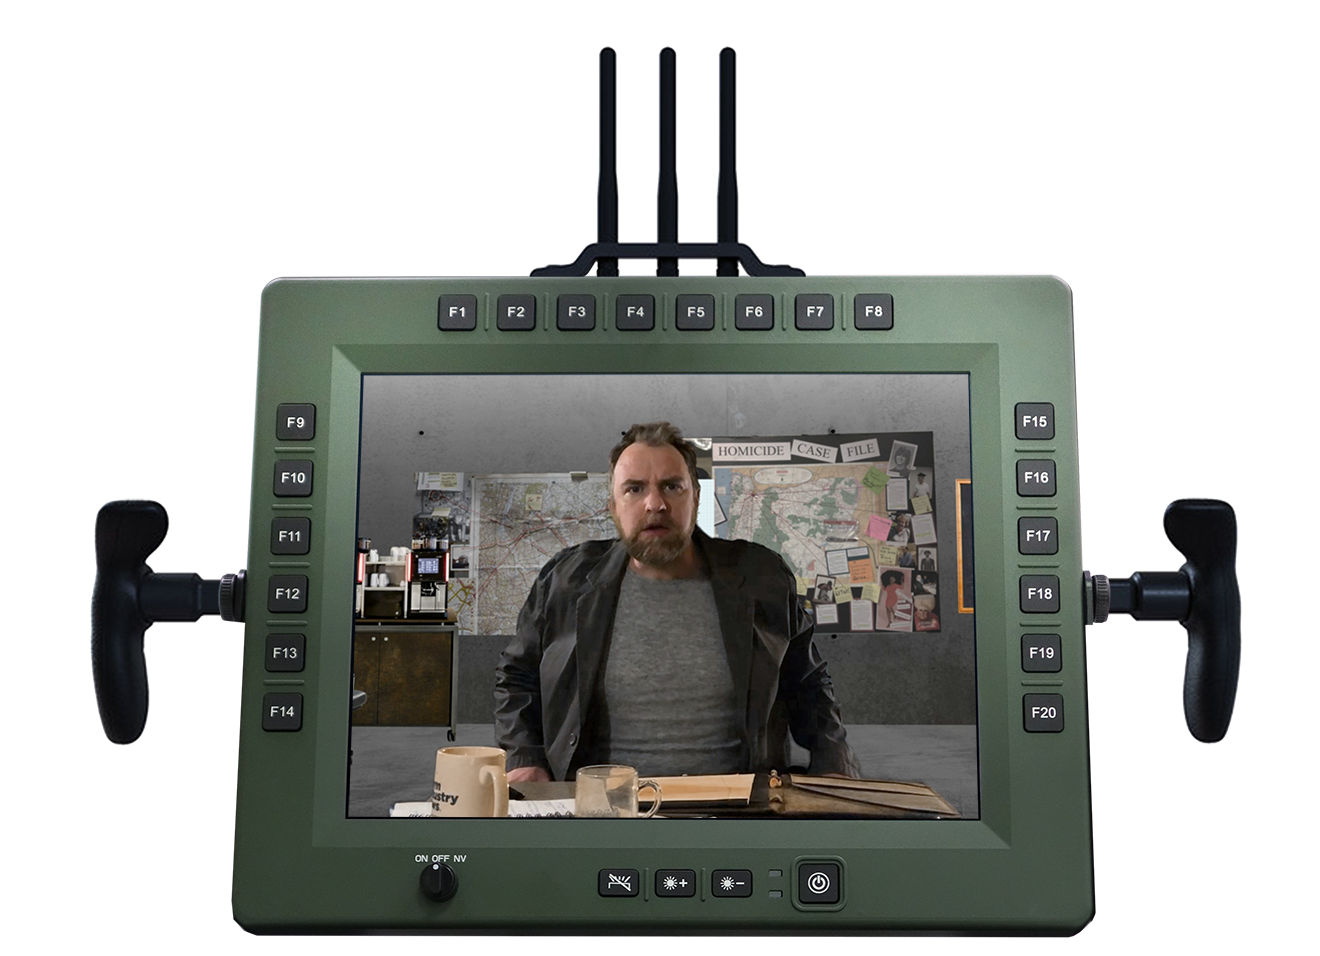
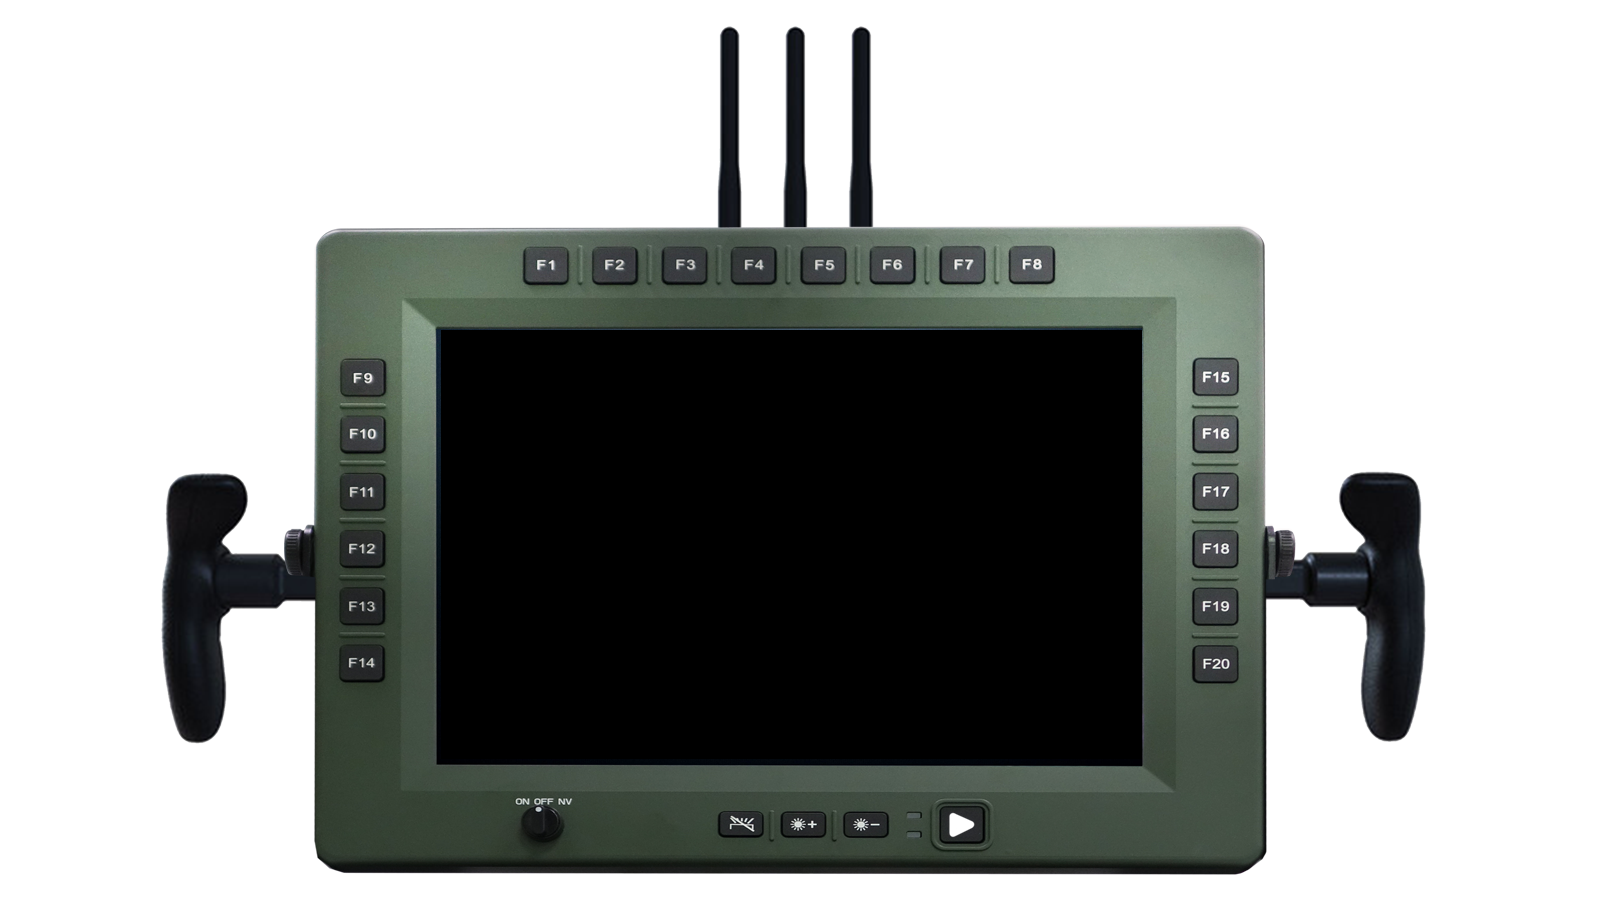
field

diff --git a/FieldMonitor/main.js b/FieldMonitor/main.js
@@ -1,0 +1,51 @@
+$(() => {
+
+    let storage = window.localStorage;
+
+
+    if(storage.getItem("paintingletters") !== null) {
+        words = JSON.parse(storage.getItem('paintingletters'));
+    }
+
+
+
+
+        if (solution === 'aperta') {
+            console.log('Solved!');
+            $('#image').hide();
+            $('#puzzle').hide();
+            $('#videowindow').trigger('play');
+            $('#video').show();
+            $('#reboot').show();
+
+            
+            setInterval(() => {
+                    // Where do you want the player to be sent to
+                    //window.location.href = 'https://seekbeak.com/v/NkjxBONe1lQ'
+                    window.open("https://seekbeak.com/v/NkjxBONe1lQ", '_blank');
+                    $('#linking').show();
+                    $('#video').hide();
+                    $('#solvedchalkboard').show();
+                    //storage.clear(); toggle to show Jacob
+                    //window.localStorage.clear();
+
+                    }, 7 * 1000); // 7 is the number of seconds before redirecting
+            //$('#solvedchalkboard').show();
+        }
+
+       
+
+        storage.setItem('paintingletters', JSON.stringify(words));
+    });
+});
+
+function puzzleReset() {
+    if (window.confirm('Stuck? Click okay to reset the puzzle')) {
+        let storage = window.localStorage;
+
+        // Remove Items for this puzzle
+        storage.removeItem("paintingletters");
+        
+        location.reload();
+    }
+}

diff --git a/FieldMonitor/styles.css b/FieldMonitor/styles.css
@@ -9,7 +9,7 @@ body{
 	background-size: cover;
 	width: 100vw;
 	height: 100vh;
-	border: dashed blue 2px;
+	border: dashed blue 0px;
 	justify-content: center;
 	text-align: center;
 	align-items: center;
@@ -27,21 +27,33 @@ body{
 
 
 .stylin {
-				position: relative;	
+				position: absolute;	
 				background-image: url(assets/fieldmonitor.png);
 				background-position: center;
 				background-repeat: no-repeat;
 				background-size: contain;
-				border: dashed red 2px;
-				width: 80vw;
-				height: 80vh;
+				border: dashed red 0px;
+				width: 100vw;
+				height: calc(100vw * (9/16));
 
 		}
 
 .video-styling {
-	position: relative;
-				width: 30vw;
-				border: solid orange 2px;
-				top: 35vh;
+				position: absolute;
+				width: 43vw;
+				height: auto;
+				border: solid orange 0px;
+				top: 43vh;
+				left: 27.5vw;
 				}
+
+				button {position: absolute;
+					width: 2.7vw;
+					height: 4vh;
+					top: 100vh;
+					left: 59vw;
+					background-color: rgba(255,0,0,0.0);}
 		
+
+		button:hover {
+					background-color: rgba(0,255,0,0.4);}

diff --git a/FieldMonitor/index.html b/FieldMonitor/index.html
@@ -12,7 +12,7 @@
 
     <div class="stylin">
 
-        <video  class="video-styling">
+        <video id="videowindow" class="video-styling">
         <source src="assets/mid1.mp4" type="video/mp4">
 
         Your browser does not support the video tag.
@@ -21,7 +21,21 @@
 
     </div>
 
-<button onclick="">
+
+<button onclick="myFunction()"></button>
+    
+    <script>
+        
+
+      function myFunction() {
+        
+        $('#videowindow').trigger('play');
+ 
+        }
+
+        
+      
+    </script>
 
 </body>
 
